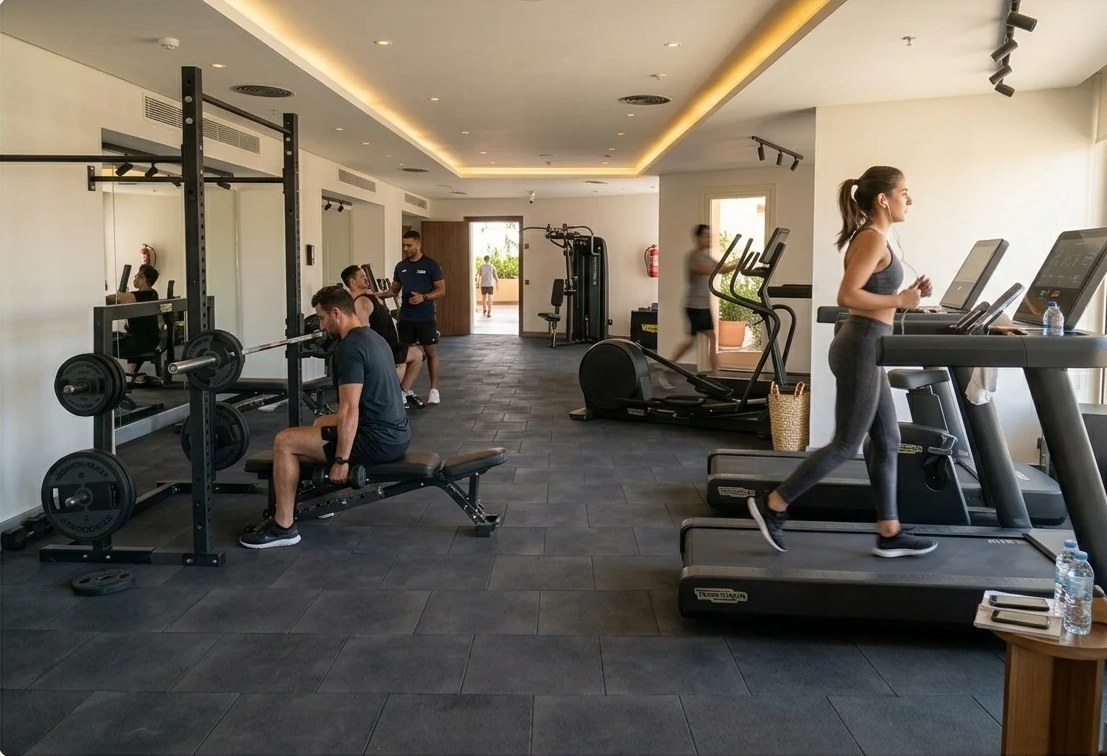
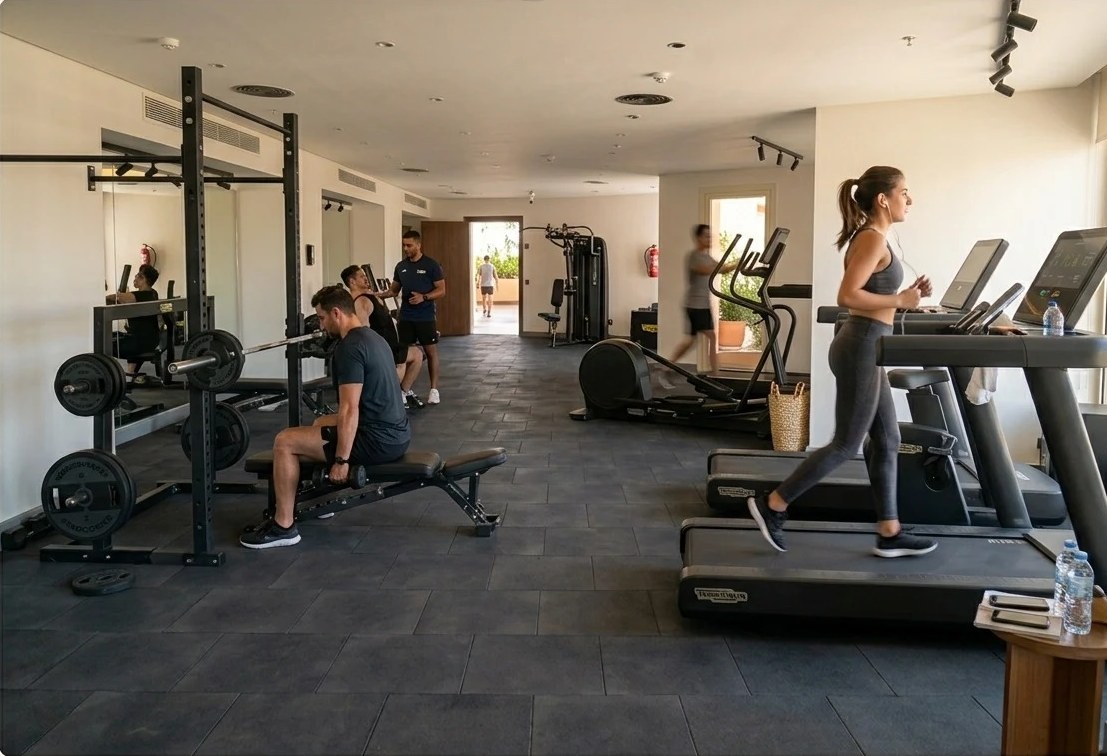
v40: gym lead photo updated (owner-provided version)

Changed region(s): [[0.1843, 0.0, 0.7678, 0.2434], [0.645, 0.3955, 0.6757, 0.4259]]

diff --git a/sw.js b/sw.js
@@ -1,4 +1,4 @@
-const C='casawhite-v39';
+const C='casawhite-v40';
 const A=['./','index.html','manifest.json','bar1.jpg','poolbar1.jpg','poolbar2.jpg','beach.jpg','dining.jpg','dining2.jpg','dining3.jpg','dining4.jpg','food1.jpg','food2.jpg','golf1.jpg','golf2.jpg','gym1.jpg','gym2.jpg','gym3.jpg','gym4.jpg','hero.jpg','icon-192.png','icon-512.png','location.jpg','logo.png','lounge.jpg','gym_lead.jpg','pool2.jpg','pool3.jpg','reception.jpg','roof1.jpg','roof2.jpg','rooftop_pool.jpg','room.jpg','rm_twin.jpg','rm_king.jpg','rm_bed.jpg','rm_mirror.jpg','rm_bath.jpg','rm_minibar.jpg','beach_b.jpg','beach_a.jpg','rm_robes.jpg','rm_balc.jpg','shuttle.jpg','st_amen.jpg','st_balcony.jpg','st_bed.jpg','st_living.jpg','st_living2.jpg','st_shower.jpg','scalini.svg','casacook.png','galambo.svg','tlt.png','kikis.png','plage.png','lucida.jpg','n_lucida1.jpg','n_kikis1.jpg','n_kikis2.jpg','n_scalini1.jpg','n_galambo1.jpg','n_galambo2.jpg','n_lemon1.jpg','n_cc1.jpg','n_cc2.jpg','n_plage1.jpg'];
 self.addEventListener('install',e=>{self.skipWaiting();e.waitUntil(caches.open(C).then(c=>c.addAll(A.map(u=>new Request(u,{cache:'reload'})))).catch(()=>{}))});
 self.addEventListener('activate',e=>e.waitUntil((async()=>{for(const k of await caches.keys()){if(k!==C)await caches.delete(k)}await self.clients.claim();for(const c of await self.clients.matchAll({type:'window'})){try{c.navigate(c.url)}catch(x){}}})()));
